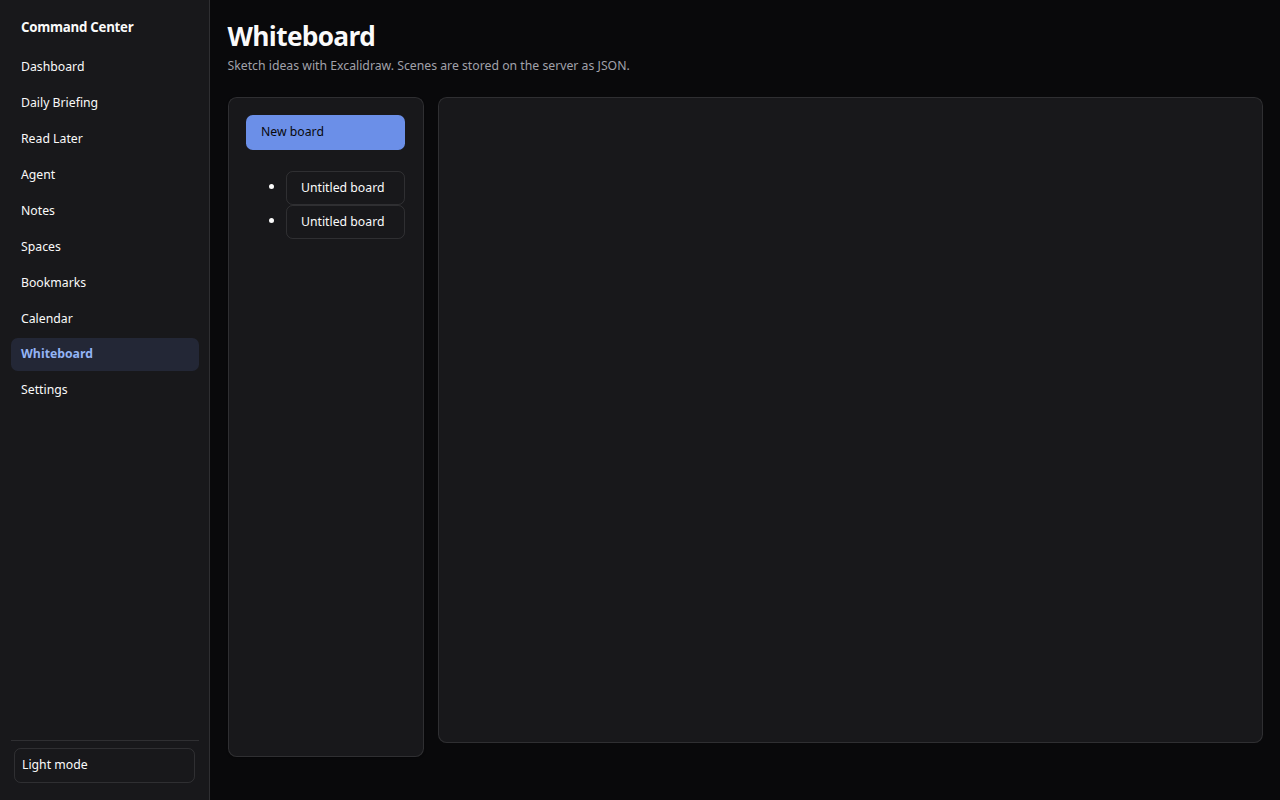
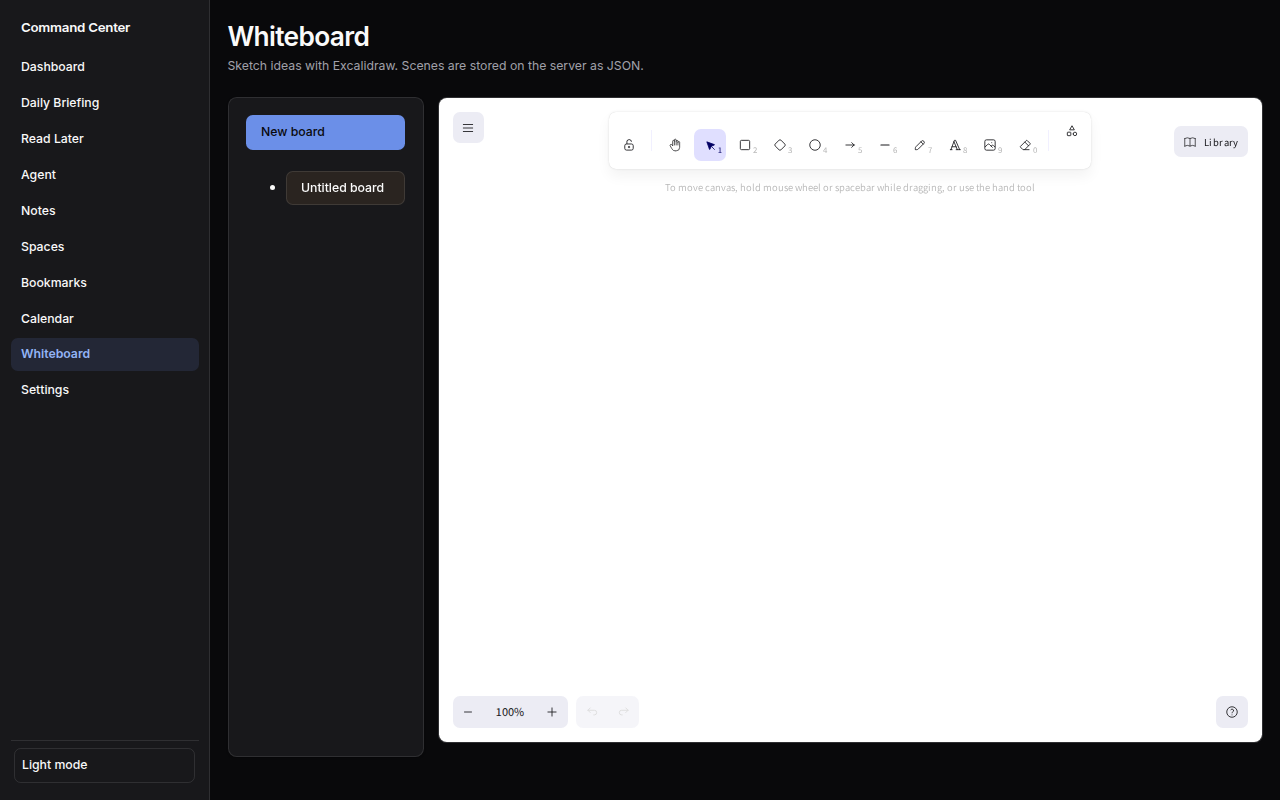
fix(whiteboard): dedupe React 18 in editor bundle and serve Excalidraw assets without auth
esbuild now aliases react/react-dom to the app's 18.3.1 copy so tunnel-rat
no longer pulls react@19. Excalidraw worker chunks are served before the auth
gate. Browser test draws with the mouse and asserts the live UI.

diff --git a/apps/server/test/whiteboard.browser.ts b/apps/server/test/whiteboard.browser.ts
@@ -13,29 +13,40 @@ import { NotesStore } from "../src/notes/store";
 import { SettingsStore } from "../src/settings";
 import { closeIntegrationServer, openIntegrationStores } from "./helpers";
 
-async function addStroke(page: Page) {
-  await page.waitForFunction(() => typeof window.whiteboardEditor !== "undefined", undefined, { timeout: 30_000 });
-  await page.evaluate(() => {
-    window.whiteboardEditor!.loadScene({
-      type: "excalidraw",
-      version: 2,
-      source: "command-center",
-      elements: [
-        {
-          id: "stroke-1",
-          type: "freedraw",
-          x: 120,
-          y: 140,
-          width: 160,
-          height: 90,
-          points: [[0, 0], [80, 45], [160, 90]],
-        },
-      ],
-      appState: {},
-      files: {},
-    });
-    document.dispatchEvent(new CustomEvent("whiteboard:change"));
-  });
+function allowedConsoleNoise(text: string): boolean {
+  if (/fonts\.(googleapis|gstatic)\.com/i.test(text)) return true;
+  if (text.includes("cf-access-jwt-assertion") && text.includes("CORS")) return true;
+  if (text === "Failed to load resource: net::ERR_FAILED") return true;
+  if (text.includes("ERR_FAILED") && /font/i.test(text)) return true;
+  if (text.includes("net::ERR_ABORTED") && /font/i.test(text)) return true;
+  return false;
+}
+
+async function assertEditorVisible(page: Page) {
+  await page.locator(".excalidraw").waitFor({ state: "visible", timeout: 30_000 });
+  await page.locator(".excalidraw .App-toolbar").waitFor({ state: "visible", timeout: 30_000 });
+  const canvasCount = await page.locator("#whiteboard-root canvas").count();
+  assert.ok(canvasCount > 0, "expected at least one Excalidraw canvas");
+}
+
+async function drawStrokeWithMouse(page: Page) {
+  await assertEditorVisible(page);
+  await page.locator(".excalidraw").click();
+  const freedrawTool = page.locator(".excalidraw .ToolIcon_type_freedraw");
+  if (await freedrawTool.count()) await freedrawTool.first().click();
+  else await page.keyboard.press("p");
+  const canvas = page.locator("#whiteboard-root canvas").last();
+  await canvas.scrollIntoViewIfNeeded();
+  const box = await canvas.boundingBox();
+  assert.ok(box, "canvas has layout");
+  const x0 = box.x + box.width * 0.3;
+  const y0 = box.y + box.height * 0.45;
+  const x1 = box.x + box.width * 0.7;
+  const y1 = box.y + box.height * 0.55;
+  await page.mouse.move(x0, y0);
+  await page.mouse.down({ button: "left" });
+  await page.mouse.move(x1, y1, { steps: 20 });
+  await page.mouse.up({ button: "left" });
   await page.waitForFunction(
     () => {
       const scene = window.whiteboardEditor?.getScene() as { elements?: unknown[] } | undefined;
@@ -46,17 +57,7 @@ async function addStroke(page: Page) {
   );
 }
 
-function regressionConsoleErrors(messages: string[]): string[] {
-  return messages.filter(
-    (e) =>
-      e.includes(".agent-tabs{display:flex")
-      || e.includes("MIME type ('application/json')")
-      || e.includes("Refused to apply style")
-      || e.includes("Refused to execute script"),
-  );
-}
-
-test("whiteboard page loads editor assets, saves strokes, and has no leaked layout CSS", { timeout: 180_000 }, async () => {
+test("whiteboard renders Excalidraw, saves a drawn stroke, and reloads it", { timeout: 180_000 }, async () => {
   const dir = await mkdtemp(join(tmpdir(), "cc-whiteboard-browser-"));
   const cfg = loadConfig({
     DATA_DIR: dir,
@@ -81,35 +82,58 @@ test("whiteboard page loads editor assets, saves strokes, and has no leaked layo
   await new Promise<void>((resolve) => server.listen(0, "127.0.0.1", resolve));
   const base = `http://127.0.0.1:${(server.address() as AddressInfo).port}`;
   const browser = await chromium.launch();
+  const pageErrors: string[] = [];
+  const consoleErrors: string[] = [];
   try {
     const context = await browser.newContext({
       viewport: { width: 1280, height: 800 },
       extraHTTPHeaders: { "cf-access-jwt-assertion": "owner" },
     });
+    await context.addInitScript(() => {
+      const sw = navigator.serviceWorker;
+      if (!sw) return;
+      sw.register = async () => ({}) as ServiceWorkerRegistration;
+    });
     const page = await context.newPage();
-    const consoleErrors: string[] = [];
+    page.on("pageerror", (err) => pageErrors.push(String(err)));
     page.on("console", (msg) => {
       if (msg.type() === "error") consoleErrors.push(msg.text());
     });
-    page.on("pageerror", (err) => consoleErrors.push(String(err)));
     await page.route(/https:\/\/fonts\.(googleapis|gstatic)\.com\//, (route) => route.abort());
+    await page.route("**/sw.js", (route) => route.fulfill({ status: 200, body: "// noop", contentType: "text/javascript" }));
+
     await page.goto(`${base}/whiteboard`, { waitUntil: "networkidle" });
-    const leakedLayoutCss = await page.evaluate(() => document.body.innerText.includes(".agent-tabs{display:flex"));
-    assert.equal(leakedLayoutCss, false, "layout CSS must not render as visible page text");
+    assert.equal(
+      await page.evaluate(() => document.body.innerText.includes(".agent-tabs{display:flex")),
+      false,
+      "layout CSS must not render as visible page text",
+    );
+
     await page.getByRole("button", { name: "New board" }).click();
-    await page.waitForFunction(() => document.querySelector("#whiteboard-list button.ghost"), undefined, { timeout: 15_000 });
-    await addStroke(page);
+    await page.locator("#whiteboard-list button.ghost").first().waitFor({ timeout: 15_000 });
+    await assertEditorVisible(page);
+
+    const saveDone = page.waitForResponse(
+      (res) => res.request().method() === "PUT" && /\/api\/whiteboard\/scenes\/[^/]+$/.test(res.url()) && res.ok(),
+      { timeout: 25_000 },
+    );
+    await drawStrokeWithMouse(page);
+    await saveDone;
     await page.waitForFunction(
       () => (document.getElementById("whiteboard-status")?.textContent ?? "").includes("Saved"),
       undefined,
       { timeout: 20_000 },
     );
+
     const elementCountBefore = await page.evaluate(() => {
       const scene = window.whiteboardEditor?.getScene() as { elements?: unknown[] };
       return scene?.elements?.length ?? 0;
     });
     assert.ok(elementCountBefore > 0);
+
     await page.reload({ waitUntil: "networkidle" });
+    await page.locator("#whiteboard-list button.ghost").first().click();
+    await assertEditorVisible(page);
     await page.waitForFunction(
       () => {
         const scene = window.whiteboardEditor?.getScene() as { elements?: unknown[] } | undefined;
@@ -123,7 +147,9 @@ test("whiteboard page loads editor assets, saves strokes, and has no leaked layo
       return scene?.elements?.length ?? 0;
     });
     assert.equal(elementCountAfter, elementCountBefore);
-    assert.deepEqual(regressionConsoleErrors(consoleErrors), []);
+
+    assert.deepEqual(pageErrors, []);
+    assert.deepEqual(consoleErrors.filter((e) => !allowedConsoleNoise(e)), []);
   } finally {
     await browser.close();
     await closeIntegrationServer(server, integration);

diff --git a/apps/server/src/http.ts b/apps/server/src/http.ts
@@ -228,6 +228,17 @@ export function createApp(app: App): Server {
 
       if (await handleSharePublicRoutes(app.cfg, app.shareLinks, shareLinkRateLimiter, req, res, path)) return;
 
+      const getEarly = method === "GET" || method === "HEAD";
+      if (getEarly && path === "/assets/whiteboard-editor.js") {
+        return send(res, 200, await whiteboardEditorScript(), "text/javascript", { "cache-control": "public, max-age=86400" });
+      }
+      if (getEarly && path.startsWith("/assets/excalidraw/")) {
+        const relative = path.slice("/assets/excalidraw/".length);
+        const asset = await readExcalidrawAsset(relative);
+        if (!asset) return json(res, 404, { error: "not found" });
+        return send(res, 200, asset, excalidrawAssetContentType(relative), { "cache-control": "public, max-age=86400" });
+      }
+
       const who = await app.auth(req, url);
       if (!who.ok) return send(res, who.status, `<h1>${who.status}</h1><p>${who.reason}</p>`);
       const extra: Record<string, string> = who.setCookie ? { "set-cookie": who.setCookie } : {};
@@ -235,15 +246,6 @@ export function createApp(app: App): Server {
       const get = method === "GET" || method === "HEAD";
 
       if (get && path === "/assets/notes-editor.js") return send(res, 200, await notesEditorScript(), "text/javascript", extra);
-      if (get && path === "/assets/whiteboard-editor.js") {
-        return send(res, 200, await whiteboardEditorScript(), "text/javascript", extra);
-      }
-      if (get && path.startsWith("/assets/excalidraw/")) {
-        const relative = path.slice("/assets/excalidraw/".length);
-        const asset = await readExcalidrawAsset(relative);
-        if (!asset) return json(res, 404, { error: "not found" });
-        return send(res, 200, asset, excalidrawAssetContentType(relative), { ...extra, "cache-control": "public, max-age=86400" });
-      }
       if (app.calendar && await handleCalendarRoutes(app.calendar, req, res, path, who.owner === true, readBody)) return;
       if (path === "/api/connections" || path.startsWith("/api/connections/")) {
         if (!who.owner) return json(res, 403, { error: "Connection management requires a verified owner login. Set OWNER_EMAILS and sign in through Cloudflare Access; machine/admin tokens cannot manage keys." });
